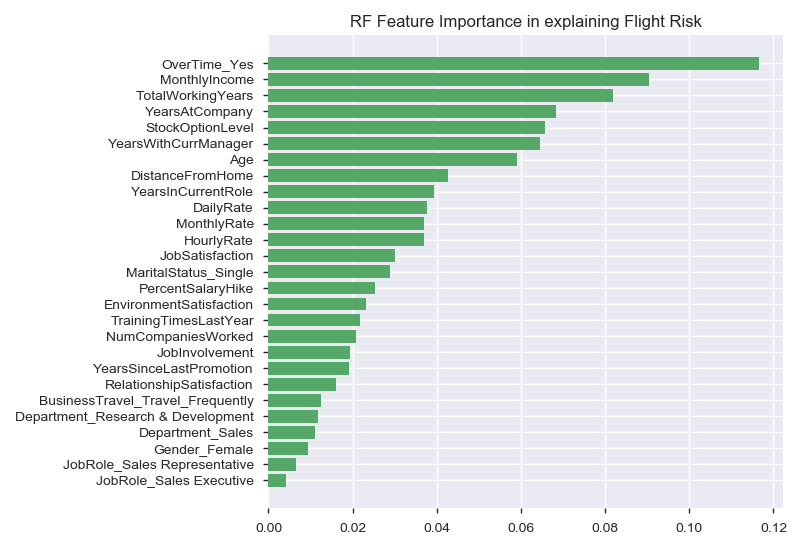
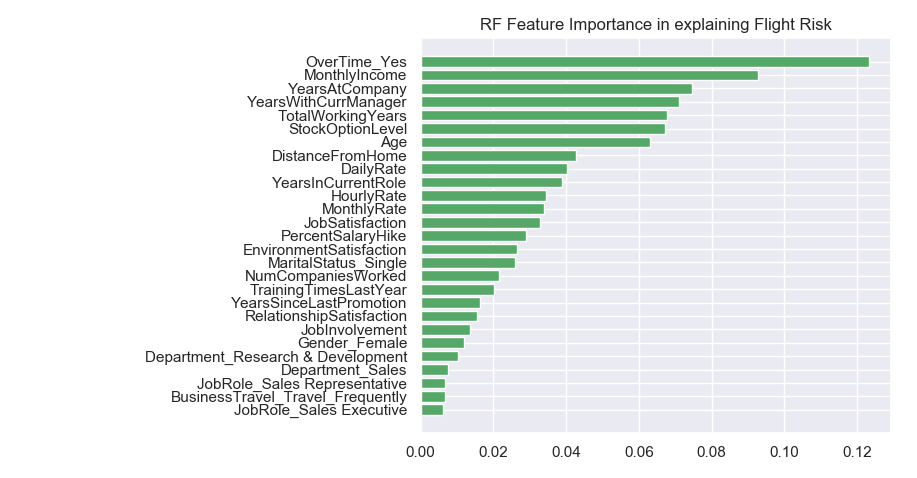
fixed issues with plots, added feature rank plot

diff --git a/Employee-Flight-Risk_Analysis.py b/Employee-Flight-Risk_Analysis.py
@@ -179,7 +179,7 @@ print(disp.confusion_matrix)
 
 # Save to file
 os.makedirs('plots', exist_ok=True)
-plt.savefig('plots/ConfusionMatrix.png')
+disp.figure_.savefig('plots/ConfusionMatrix.png')
 
 # Precision-Recall Curve
 # noinspection PyTypeChecker
@@ -192,4 +192,27 @@ plt.show()
 
 # Save to file
 os.makedirs('plots', exist_ok=True)
-plt.savefig('plots/Precision-Recall_curve.png')
+disp.figure_.savefig('plots/Precision-Recall_curve.png')
+
+# Feature Importance Chart
+# start by initializing a dataframe to hold results
+feature_importance_df = pd.DataFrame(columns=['Feature', 'Importance'])
+feature_importance_df['Feature'] = X_train.columns.values
+feature_importance_df['Importance'] = rf.feature_importances_
+
+# sort by importance
+feature_importance_df = feature_importance_df.sort_values('Importance', ascending=False)
+feature_importance_df.reset_index(drop=True, inplace=True)
+
+y_ticks = sorted(range(27), reverse=True)
+fig, ax = plt.subplots()
+ax.barh(y_ticks, feature_importance_df['Importance'], color='g')
+ax.set_yticklabels(feature_importance_df['Feature'])
+ax.set_yticks(y_ticks)
+ax.set_title("RF Feature Importance in explaining Flight Risk")
+fig.tight_layout()
+plt.show()
+
+# Save to file
+os.makedirs('plots', exist_ok=True)
+fig.savefig('plots/RF_FeatureRank.png')

diff --git a/README.md b/README.md
@@ -49,7 +49,7 @@ probability which is more useful as a model for HR departments to monitor risk d
 
 The scikit-learn documentation on the Random Forest algorithm can be found
 [here](https://scikit-learn.org/stable/modules/ensemble.html#random-forests).
-Basically, Random Forests create many (in this case 125) Decision Trees by a method called 
+Basically, Random Forests create many (in this case 120) Decision Trees by a method called 
 *bagging*, which involves taking the original training dataset of size n and randomly sampling 
 some part of the data of size n' *with replacement* and then repeating this m times creating 
 m different train sets. This has the effect of reducing the variance associated with any one 
